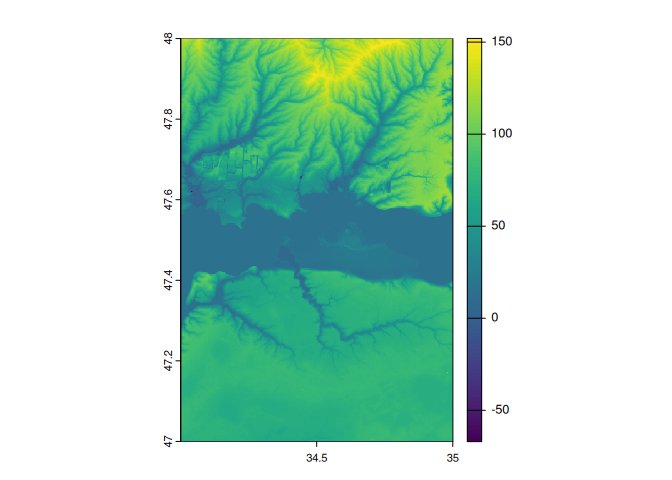
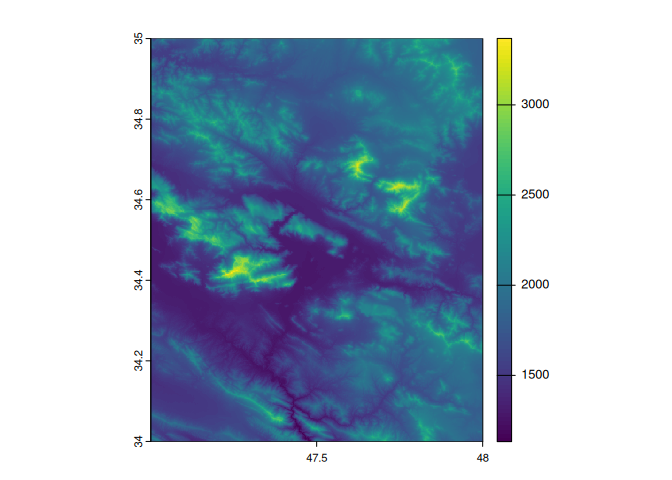
land use land cover

diff --git a/README.md b/README.md
@@ -34,7 +34,7 @@ bounding box for an area of interest or provide specific coordinates.
 library("getsat")
 
 # Retrieve elevation data for a bounding box (longitude/latitude)
-elev1 <- get_dem(c(34, 47, 35, 48), res = 90)
+elev1 <- get_dem(c(47, 34, 48, 35), res=90)
 #>   |                                                                              |                                                                      |   0%  |                                                                              |==================                                                    |  25%  |                                                                              |===================================                                   |  50%  |                                                                              |====================================================                  |  75%  |                                                                              |======================================================================| 100%
 # plot retrived elevation data
 terra::plot(elev1)
@@ -45,111 +45,111 @@ terra::plot(elev1)
 ``` r
 
 # Retrieve elevation for specific coordinate points
-coords <- cbind(runif(n = 100, min = 34, max = 35), 
-                runif(n = 100, min = 47, max = 48))
+coords <- cbind(runif(n = 100, min = 47, max = 48), 
+                runif(n = 100, min = 34, max = 35))
 elev2 <- get_dem(coords, res = 90)
 #>   |                                                                              |                                                                      |   0%  |                                                                              |========                                                              |  11%  |                                                                              |================                                                      |  22%  |                                                                              |=======================                                               |  33%  |                                                                              |===============================                                       |  44%  |                                                                              |=======================================                               |  56%  |                                                                              |===============================================                       |  67%  |                                                                              |======================================================                |  78%  |                                                                              |==============================================================        |  89%  |                                                                              |======================================================================| 100%
 # Print retrieved elevation values
 print(elev2)
 #>           X1       X2 elevation
-#> 1   34.55673 47.33961  69.02737
-#> 2   34.04655 47.88544  94.24391
-#> 3   34.43043 47.35156  65.66311
-#> 4   34.33407 47.95249 105.00020
-#> 5   34.74630 47.63326  60.03547
-#> 6   34.80012 47.30639  69.93739
-#> 7   34.24315 47.91739  97.92494
-#> 8   34.34971 47.74017  59.58264
-#> 9   34.63005 47.37289  75.88979
-#> 10  34.78240 47.42963  20.15970
-#> 11  34.44670 47.60215  14.50000
-#> 12  34.41099 47.12315  76.54571
-#> 13  34.72709 47.19647  78.06511
-#> 14  34.09013 47.77587  69.43589
-#> 15  34.06471 47.99781 135.44765
-#> 16  34.02302 47.59731  15.24369
-#> 17  34.61851 47.79383  90.11113
-#> 18  34.86921 47.41934  14.50000
-#> 19  34.62985 47.25747  40.07663
-#> 20  34.71426 47.16337  77.09293
-#> 21  34.84993 47.89990  91.56104
-#> 22  34.26486 47.60047  38.32966
-#> 23  34.68587 47.65736  64.84534
-#> 24  34.40676 47.30693  64.85149
-#> 25  34.49753 47.45499  16.84823
-#> 26  34.51432 47.21411  62.69082
-#> 27  34.69290 47.24859  69.17003
-#> 28  34.87184 47.97822 108.58931
-#> 29  34.10030 47.32414  82.96927
-#> 30  34.88333 47.92934  92.16034
-#> 31  34.27403 47.65500  28.34190
-#> 32  34.96201 47.85568 114.43882
-#> 33  34.05486 47.39203  95.22740
-#> 34  34.01440 47.84132  92.07420
-#> 35  34.67137 47.72345  23.68955
-#> 36  34.70163 47.06478  76.74195
-#> 37  34.33621 47.37115  61.31937
-#> 38  34.20005 47.32502  35.92973
-#> 39  34.15485 47.56940  24.90696
-#> 40  34.06611 47.46643  14.50000
-#> 41  34.01139 47.67898  24.89593
-#> 42  34.44271 47.15316  78.02280
-#> 43  34.10278 47.59664  32.46444
-#> 44  34.82775 47.74323 104.79624
-#> 45  34.69152 47.20474  76.97737
-#> 46  34.35838 47.63672  45.58266
-#> 47  34.43832 47.10137  74.63513
-#> 48  34.41473 47.04612  67.78713
-#> 49  34.85335 47.50175  14.50000
-#> 50  34.39060 47.67362  76.88275
-#> 51  34.64060 47.47345  24.68142
-#> 52  34.27166 47.93184 101.42308
-#> 53  34.65880 47.19466  71.83344
-#> 54  34.49919 47.49591  16.54647
-#> 55  34.58615 47.07045  69.12215
-#> 56  34.11158 47.53496  14.50000
-#> 57  34.86888 47.65697  80.39803
-#> 58  34.75186 47.59480  54.09323
-#> 59  34.69542 47.10414  74.09110
-#> 60  34.32956 47.15376  77.64599
-#> 61  34.78826 47.80278  88.72456
-#> 62  34.04130 47.18044  76.65994
-#> 63  34.63254 47.61585  19.24571
-#> 64  34.28301 47.53149  14.50000
-#> 65  34.92691 47.29158  72.28580
-#> 66  34.19353 47.30429  42.26077
-#> 67  34.03411 47.69933  31.44294
-#> 68  34.79903 47.52977  14.50000
-#> 69  34.61440 47.50225  29.57519
-#> 70  34.33599 47.84878  71.37888
-#> 71  34.48482 47.50505  14.50000
-#> 72  34.29649 47.28309  47.40778
-#> 73  34.81003 47.22963  74.99492
-#> 74  34.47090 47.50344  14.50000
-#> 75  34.60028 47.77021  73.71892
-#> 76  34.63153 47.15101  76.75616
-#> 77  34.68826 47.91224 111.88978
-#> 78  34.15183 47.26518  75.38731
-#> 79  34.60670 47.12416  76.93122
-#> 80  34.84893 47.78070  96.60350
-#> 81  34.16289 47.84145  84.24564
-#> 82  34.36570 47.78468  81.28233
-#> 83  34.60027 47.15675  75.80280
-#> 84  34.96044 47.34241  80.55644
-#> 85  34.77484 47.65227  41.74619
-#> 86  34.12676 47.18177  76.79790
-#> 87  34.13321 47.58204  39.23132
-#> 88  34.80571 47.67771  91.67553
-#> 89  34.14749 47.58659  34.87170
-#> 90  34.60154 47.72313  70.58840
-#> 91  34.62475 47.84826 108.81560
-#> 92  34.05678 47.95229 111.73919
-#> 93  34.47277 47.34350  36.53500
-#> 94  34.84154 47.05029  73.33973
-#> 95  34.41303 47.40476  66.28651
-#> 96  34.97930 47.74713 102.55818
-#> 97  34.57104 47.26988  69.96526
-#> 98  34.11493 47.68051  48.26374
-#> 99  34.14810 47.62717  34.76117
-#> 100 34.32530 47.87163  90.99426
+#> 1   47.46002 34.44759  1289.579
+#> 2   47.71781 34.77591  1996.031
+#> 3   47.39185 34.19787  1630.639
+#> 4   47.13262 34.62548  1474.867
+#> 5   47.13420 34.34629  1306.085
+#> 6   47.94565 34.12826  1898.059
+#> 7   47.85174 34.71141  2111.709
+#> 8   47.81767 34.43743  1667.620
+#> 9   47.02402 34.48829  1305.547
+#> 10  47.02447 34.56169  1762.521
+#> 11  47.67890 34.82494  1936.497
+#> 12  47.15572 34.44889  1444.577
+#> 13  47.30725 34.20291  1299.150
+#> 14  47.85687 34.38754  1498.116
+#> 15  47.71268 34.07852  1602.129
+#> 16  47.38445 34.48513  1858.986
+#> 17  47.97515 34.72027  1544.086
+#> 18  47.73373 34.48271  1679.499
+#> 19  47.37622 34.23286  1290.703
+#> 20  47.20398 34.56797  1716.732
+#> 21  47.86583 34.95068  2104.732
+#> 22  47.74643 34.56500  2561.225
+#> 23  47.98844 34.61065  1632.781
+#> 24  47.56311 34.35131  1653.567
+#> 25  47.00178 34.84695  1832.034
+#> 26  47.86961 34.72599  1900.849
+#> 27  47.72096 34.70067  1825.706
+#> 28  47.66046 34.58189  2120.837
+#> 29  47.26633 34.31106  1381.786
+#> 30  47.14934 34.52641  2524.003
+#> 31  47.52462 34.27893  1523.815
+#> 32  47.72473 34.55464  1901.344
+#> 33  47.76791 34.39851  1571.426
+#> 34  47.20881 34.17830  1544.671
+#> 35  47.68759 34.70601  1881.818
+#> 36  47.54314 34.74318  1669.774
+#> 37  47.74045 34.85041  1880.615
+#> 38  47.98332 34.08474  1845.003
+#> 39  47.62579 34.63160  1933.973
+#> 40  47.18770 34.68687  1816.634
+#> 41  47.97925 34.26680  1879.586
+#> 42  47.33978 34.54117  1718.009
+#> 43  47.04710 34.57345  2801.116
+#> 44  47.36267 34.22732  1290.949
+#> 45  47.53191 34.73666  1692.961
+#> 46  47.79513 34.17940  1921.186
+#> 47  47.42346 34.24283  1392.055
+#> 48  47.87691 34.48761  1673.289
+#> 49  47.65655 34.67100  2043.008
+#> 50  47.40618 34.62031  1368.312
+#> 51  47.93579 34.92662  2395.014
+#> 52  47.85840 34.10017  1716.206
+#> 53  47.88269 34.22190  2160.562
+#> 54  47.20062 34.85721  2195.318
+#> 55  47.24044 34.61443  1449.094
+#> 56  47.91452 34.58059  1602.226
+#> 57  47.16150 34.00137  1469.347
+#> 58  47.64149 34.25096  1641.028
+#> 59  47.10742 34.14975  1564.596
+#> 60  47.64558 34.43409  1350.285
+#> 61  47.92639 34.32939  1785.100
+#> 62  47.82233 34.50193  1811.079
+#> 63  47.55068 34.84993  1802.774
+#> 64  47.11678 34.44473  1453.096
+#> 65  47.38019 34.95976  1946.379
+#> 66  47.40893 34.06958  1603.237
+#> 67  47.97322 34.36983  1522.015
+#> 68  47.82052 34.05384  2177.521
+#> 69  47.65276 34.20466  1867.589
+#> 70  47.94969 34.73817  1726.119
+#> 71  47.66095 34.61934  1718.304
+#> 72  47.66725 34.57522  2293.171
+#> 73  47.77281 34.18899  1697.305
+#> 74  47.44454 34.43576  1348.604
+#> 75  47.01239 34.84034  1859.172
+#> 76  47.34905 34.77136  2110.469
+#> 77  47.85015 34.40458  1653.197
+#> 78  47.30439 34.31279  1382.726
+#> 79  47.00642 34.20800  1620.994
+#> 80  47.09362 34.43152  1497.628
+#> 81  47.99827 34.53590  1587.608
+#> 82  47.36840 34.25859  1298.261
+#> 83  47.59055 34.01836  1892.681
+#> 84  47.79002 34.24601  1965.588
+#> 85  47.79200 34.73610  2123.401
+#> 86  47.63064 34.43667  1382.941
+#> 87  47.38026 34.00080  1762.150
+#> 88  47.56334 34.78165  1655.177
+#> 89  47.11680 34.48614  1775.332
+#> 90  47.97746 34.79556  1846.882
+#> 91  47.73768 34.07748  1753.983
+#> 92  47.59131 34.60941  1867.194
+#> 93  47.38386 34.73112  2216.379
+#> 94  47.55244 34.08574  1823.158
+#> 95  47.18007 34.11669  1572.172
+#> 96  47.43083 34.64679  1415.703
+#> 97  47.99161 34.03284  1864.783
+#> 98  47.09722 34.73370  1832.066
+#> 99  47.80815 34.61886  2623.065
+#> 100 47.19894 34.76559  1886.214
 ```
